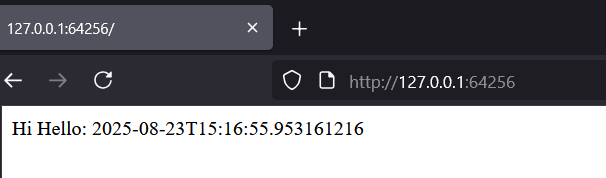
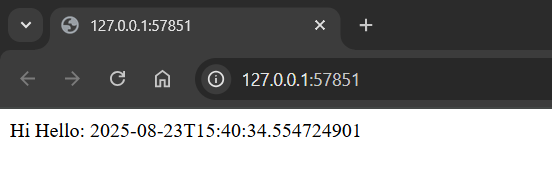
k8s - pod deployment service
k8s - pod deployment service

diff --git a/README.md b/README.md
@@ -375,6 +375,7 @@ minikube stop
 
 #### 1. Adım:
    yaml dosyalarında tüm portları 8080 yapın.
+   Eğer dışarıdan 9090'da çalışmasını isterseniz o zaman 9090 yapın.
 
 
 #### 2. Adım
@@ -392,10 +393,11 @@ kubectl apply -f   _01_my_service_create.yaml
 
 4. Adım aşağıdaki komutu çalıştırın. Otomatik olarak bir port verilecek ve uygulama K8s üzerinde çalıştırılacak.
 
+minikube service    SERVISE_VERDIGINIZ_AD  
 ```
-minikube service    devops-01-hello     http://localhost:8080
+minikube service    devops-01-hello     
 ```
-minikube service    SERVISE_VERDIGINIZ_AD     http://localhost:8080
+
 
 Buradaki port otomatik verildi ama servis çalıştırılırken o da ayarlanabilir.
 ![DevOps 3- Service Run.png](my-docs/DevOps%203-%20Service%20Run.png)
